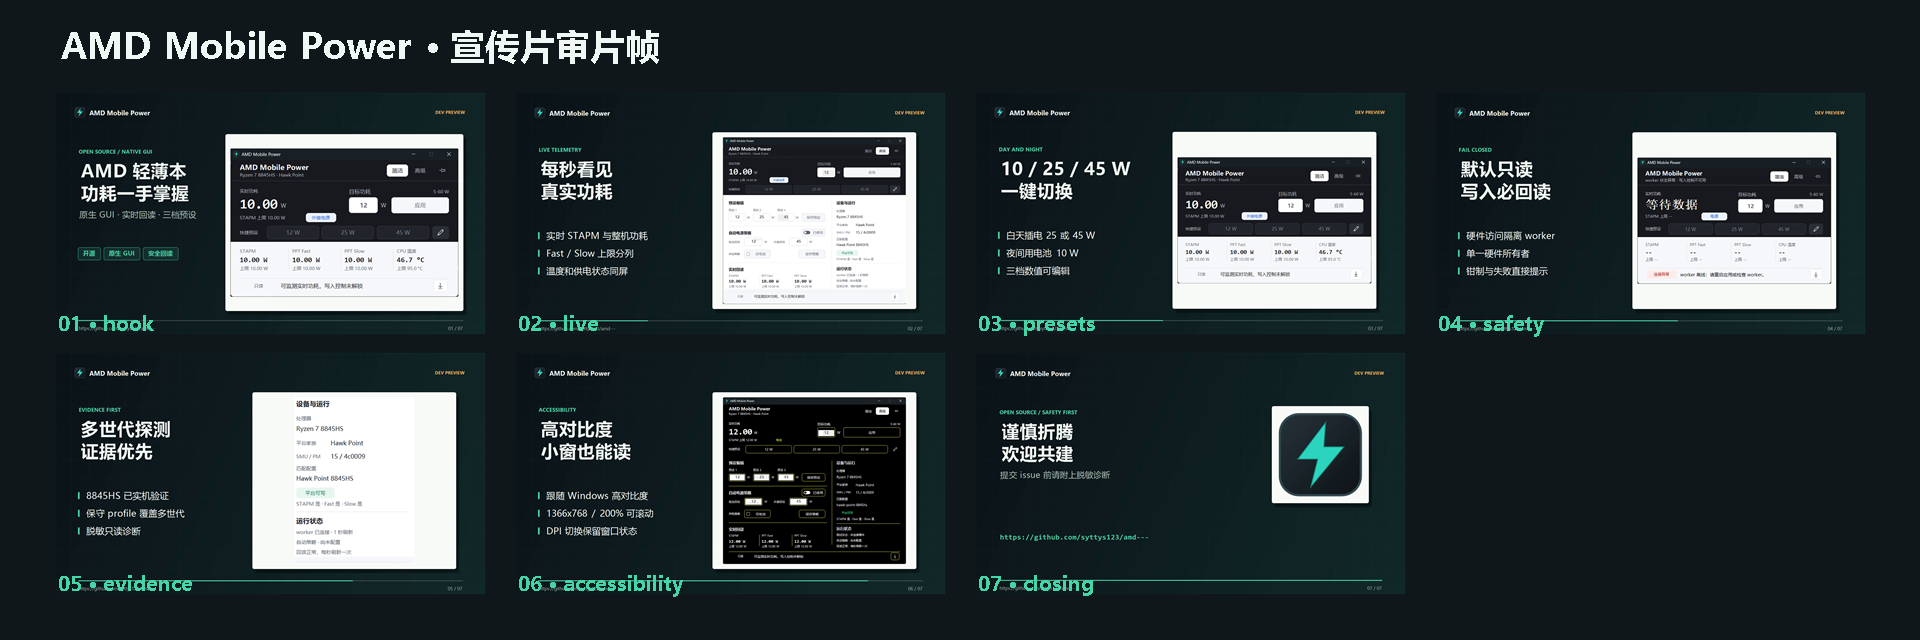
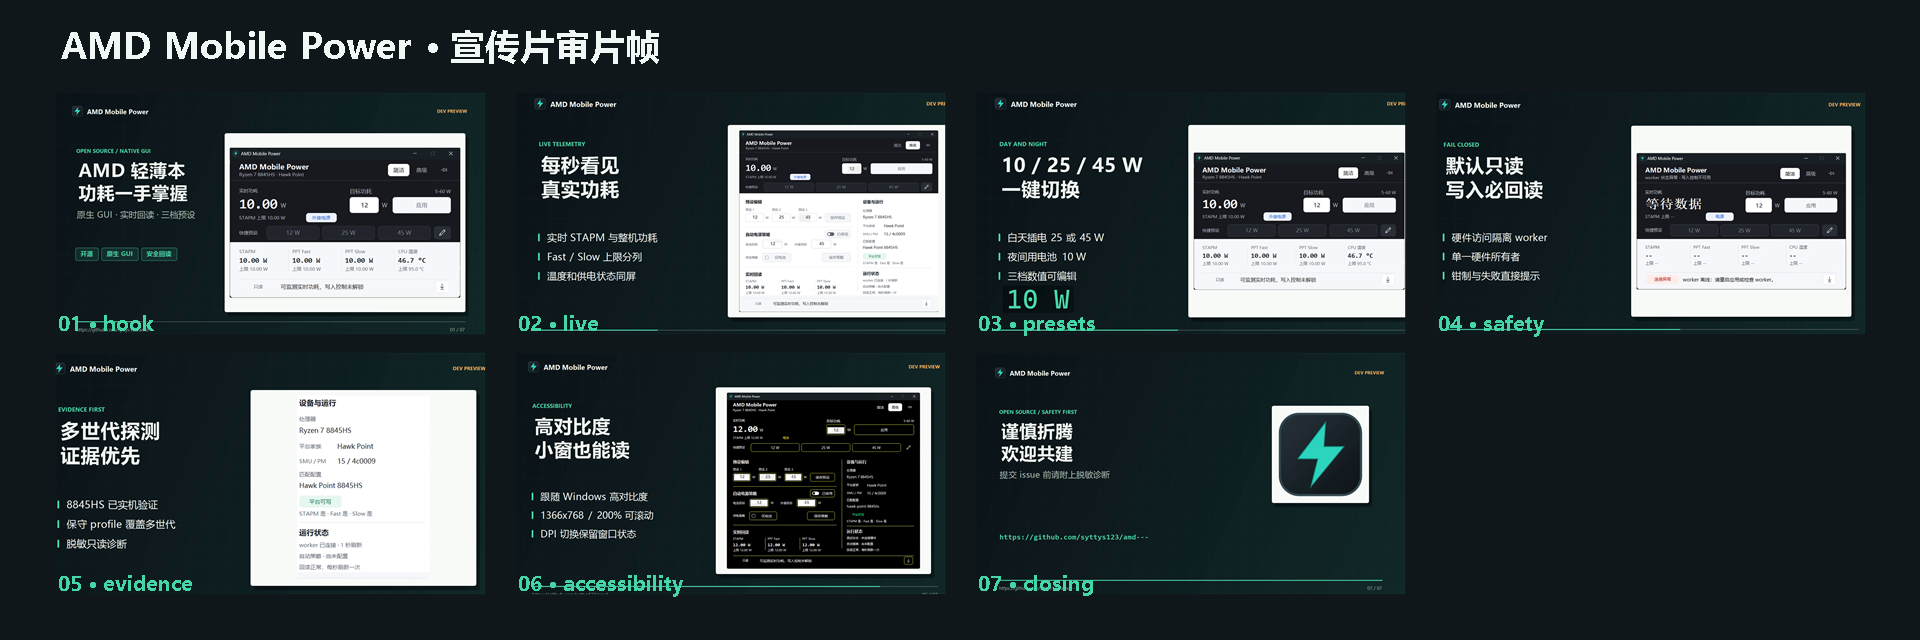
media: 宣传片加入镜头运动与预设计数动画
每个场景改为独立 zoom/pan 镜头运动（推近、左右平移、纵向下移、拉远），预设场景叠加按时间切换的 10/12/25/45 W 计数；重渲 109.2 秒 v2（0ac11c87，23,769,552 字节），verify-media 全量 PASS。

diff --git a/docs/PROMO_VIDEO.md b/docs/PROMO_VIDEO.md
@@ -9,8 +9,10 @@ process and performs no hardware write.
 The current draft is 109.2 seconds at 1920x1080, 25 fps, with H.264 video, AAC
 stereo audio, Chinese narration, and simplified-Chinese captions. It uses the
 `1.0.22-native` capture set (layout identical to `1.0.23`) together with the
-high-contrast, worker-offline, and device-panel states. It is marked
-`DRAFT_FOR_HUMAN_REVIEW`; it is not approved for upload.
+high-contrast, worker-offline, and device-panel states. Each scene now uses its
+own camera motion (zoom or pan) instead of a static card, and the presets scene
+shows an animated `10 / 12 / 25 / 45 W` counter on top of the UI capture. It is
+marked `DRAFT_FOR_HUMAN_REVIEW`; it is not approved for upload.
 
 ![Promo draft cover](assets/native-promo-1.0.23-cover-2026-11-13.png)
 
@@ -23,13 +25,13 @@ Bilibili 1146x717 cover:
 Local render:
 
 ```text
-artifacts/media/amd-mobile-power-promo-1.0.23-2026-11-13/
-  amd-mobile-power-intro-1.0.23-2026-11-13.mp4
+artifacts/media/amd-mobile-power-promo-1.0.23-v2-2026-11-13/
+  amd-mobile-power-intro-1.0.23-v2-2026-11-13.mp4
 ```
 
-- Size: 26,058,446 bytes.
+- Size: 23,769,552 bytes.
 - SHA256:
[2 lines of base64/hex data omitted]
 - Full-file FFmpeg decode: PASS.
 - Audio level: mean `-20.7 dB`, peak `-1.2 dB`.
 - Title, caption, and bullet safe-width checks: PASS.
@@ -42,8 +44,8 @@ Verify the local MP4 and every committed review/source hash without rerendering:
 
 ```powershell
 .\verify-media.ps1 `
-  -VideoPath .\artifacts\media\amd-mobile-power-promo-1.0.23-2026-11-13\amd-mobile-power-intro-1.0.23-2026-11-13.mp4 `
-  -ManifestPath .\artifacts\media\amd-mobile-power-promo-1.0.23-2026-11-13\promo-manifest.json `
+  -VideoPath .\artifacts\media\amd-mobile-power-promo-1.0.23-v2-2026-11-13\amd-mobile-power-intro-1.0.23-v2-2026-11-13.mp4 `
+  -ManifestPath .\artifacts\media\amd-mobile-power-promo-1.0.23-v2-2026-11-13\promo-manifest.json `
   -EvidencePath .\docs\evidence\media\native-promo-1.0.23-draft-2026-11-13.json
 ```
 
@@ -56,16 +58,16 @@ renderer, video cover, contact sheet, and the 1146x717 Bilibili cover.
 ```powershell
 .\render-promo.ps1 `
   -Storyboard .\media\promo-native\storyboard-1.0.23.json `
-  -OutputDirectory .\artifacts\media\amd-mobile-power-promo-1.0.23-2026-11-13 `
-  -OutputName amd-mobile-power-intro-1.0.23-2026-11-13.mp4 `
+  -OutputDirectory .\artifacts\media\amd-mobile-power-promo-1.0.23-v2-2026-11-13 `
+  -OutputName amd-mobile-power-intro-1.0.23-v2-2026-11-13.mp4 `
   -MusicPath .\artifacts\media\promo-music-bed-2026-11-12.wav
 ```
 
 The default output is written under the ignored `artifacts/media` directory:
 
 ```text
-artifacts/media/amd-mobile-power-promo-1.0.23-2026-11-13/
-  amd-mobile-power-intro-1.0.23-2026-11-13.mp4
+artifacts/media/amd-mobile-power-promo-1.0.23-v2-2026-11-13/
+  amd-mobile-power-intro-1.0.23-v2-2026-11-13.mp4
   captions-zh.srt
   cover-draft.png
   promo-manifest.json
@@ -92,3 +94,5 @@ or audio bound stops the render instead of producing an accepted draft.
   content appears.
 - The project owner reviews the final voice, pacing, claims, and cover before
   any authenticated upload.
+
+

diff --git a/docs/DEV_STATUS.md b/docs/DEV_STATUS.md
@@ -31,6 +31,13 @@ hashes, review assets, and cover. Evidence:
 `docs/evidence/media/native-promo-1.0.23-draft-2026-11-13.json`. Status stays
 `DRAFT_FOR_HUMAN_REVIEW`; no upload or publication was performed.
 
+2026-11-13 (media 1.0.23 v2): re-rendered the draft again after visual review.
+Each scene now uses its own camera motion (zoom or pan) instead of a static
+card, and the presets scene overlays an animated `10 / 12 / 25 / 45 W` counter
+on the UI capture. Video SHA256
[1 lines of base64/hex data omitted]
+`23,769,552` bytes, `109.2 s`. `verify-media.ps1` PASS.
+
 2026-11-13 (visual QA): deployed `1.0.23-native` was captured in simple and
 advanced modes at 100% and 125% logical scaling with the worker-offline
 fixture. No truncated labels, overlapping controls, or clipped footers were

diff --git a/docs/RELEASE_RUNBOOK.md b/docs/RELEASE_RUNBOOK.md
@@ -61,7 +61,7 @@ gh release create v1.0.23-native `
 
 ## 3. B 站上传
 
-- 视频：`artifacts/media/amd-mobile-power-promo-1.0.23-2026-11-13/amd-mobile-power-intro-1.0.23-2026-11-13.mp4`
+- 视频：`artifacts/media/amd-mobile-power-promo-1.0.23-v2-2026-11-13/amd-mobile-power-intro-1.0.23-v2-2026-11-13.mp4`
   （109.2 秒，1080p，SAPI 配音 + 原创配乐）。
 - 封面：`docs/assets/bilibili-cover-1.0.23-2026-11-13.png`（1146x717）。
 - 标题、简介、标签、置顶评论取自 `docs/NATIVE_LAUNCH_COPY_ZH.md`。
